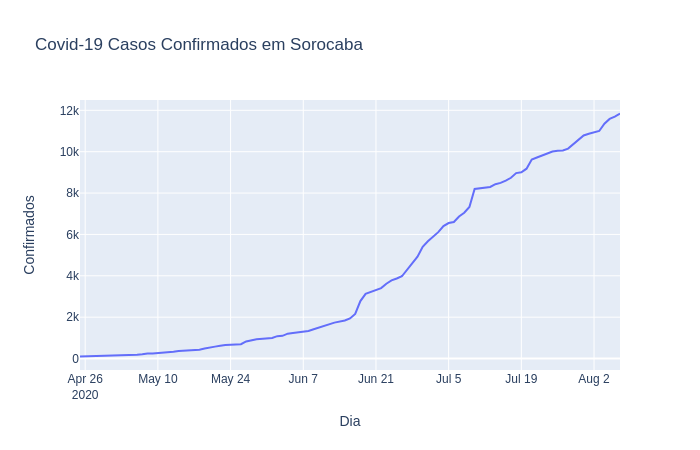
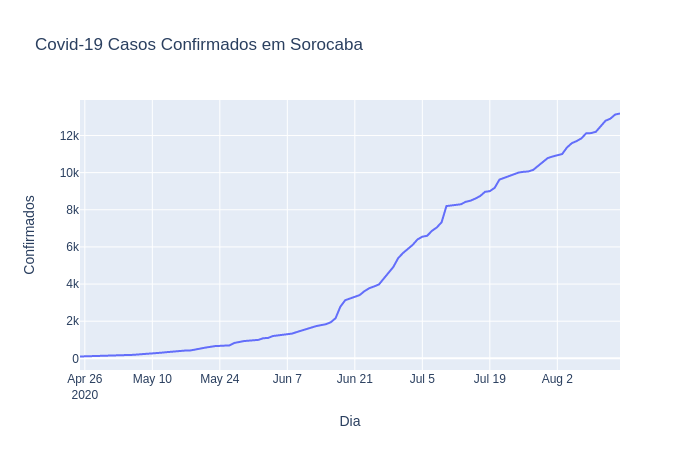
dados atualizados 15/08

diff --git a/README.md b/README.md
@@ -1,8 +1,8 @@
 ## Dados divulgados pela Prefeitura de Sorocaba sobre os casos de Covid-19
 Há uma planilha com os dados retirados das imagens divulgadas [AQUI](https://github.com/lucas-koiti/covid19-sorocaba/blob/master/dados/planilha_csv/dados.csv).
 
-## Gráfico de casos confirmados até 07/08/2020
+## Gráfico de casos confirmados até 15/08/2020
 <img src= "confirmados.png">
 
-## Gráfico de óbitos por covid-19 até 07/08/2020
+## Gráfico de óbitos por covid-19 até 15/08/2020
 <img src= "obitos.png">
